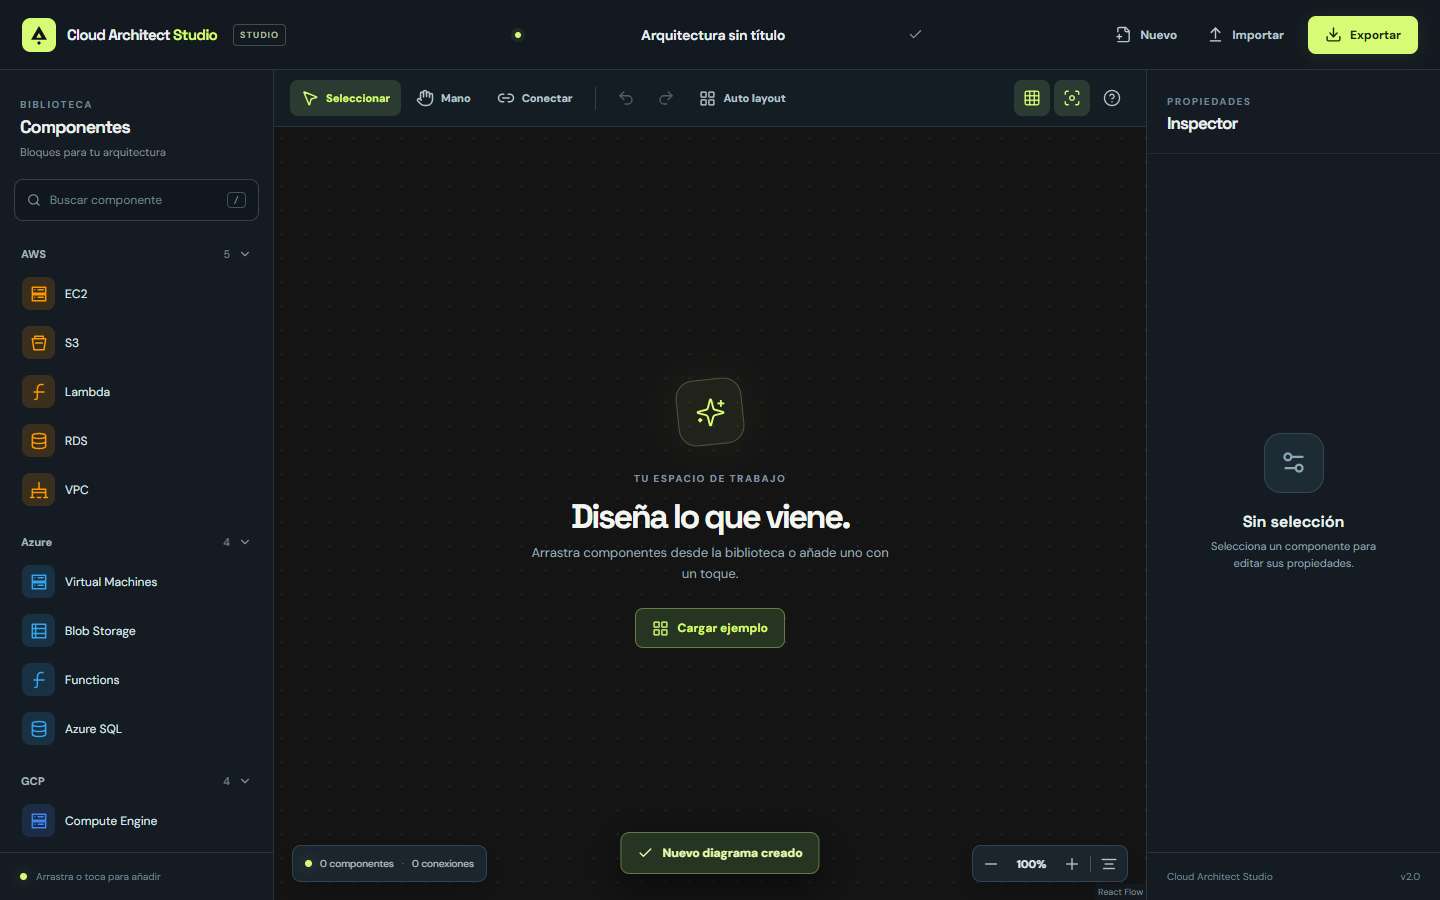
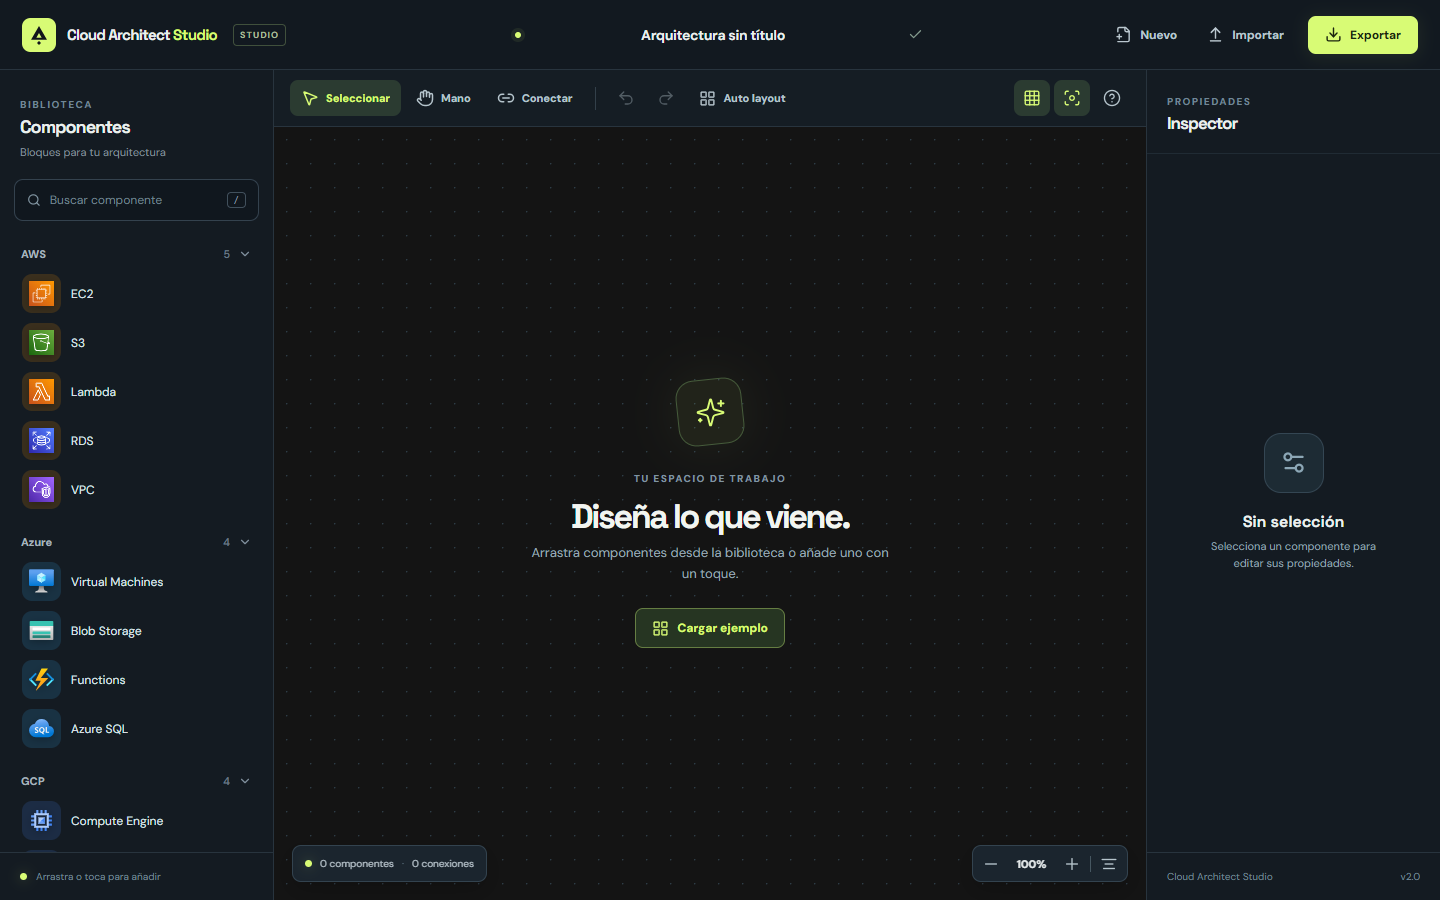
docs: refresh README screenshots for current studio

diff --git a/README.md b/README.md
@@ -20,7 +20,7 @@ Sitio publicado: [Cloud Architect Studio](https://analizajech.github.io/cloud-ar
 
 ## Capturas y GIFs
 
-Capturas reales de la aplicación en un servidor local:
+Capturas de la versión 2.0 actual, tomadas en el navegador sobre el build de producción:
 
 | Escritorio                                | Móvil (360 px)                      |
 | ----------------------------------------- | ----------------------------------- |
@@ -28,11 +28,11 @@ Capturas reales de la aplicación en un servidor local:
 
 ![Inspector con tamaño, color y estilo personalizados](docs/customization.png)
 
-![Ejemplo abierto a escala legible en 360 px](docs/mobile-example.png)
+![Biblioteca de tecnologías abierta en una pantalla de 360 px](docs/mobile-example.png)
 
 ![Del lienzo vacío a un diagrama de ejemplo](docs/demo.gif)
 
-El GIF alterna dos capturas reales del editor: el lienzo vacío y el ejemplo cargado.
+El GIF alterna el lienzo vacío y el diagrama de ejemplo con los iconos SVG actuales.
 
 ## Características
 
